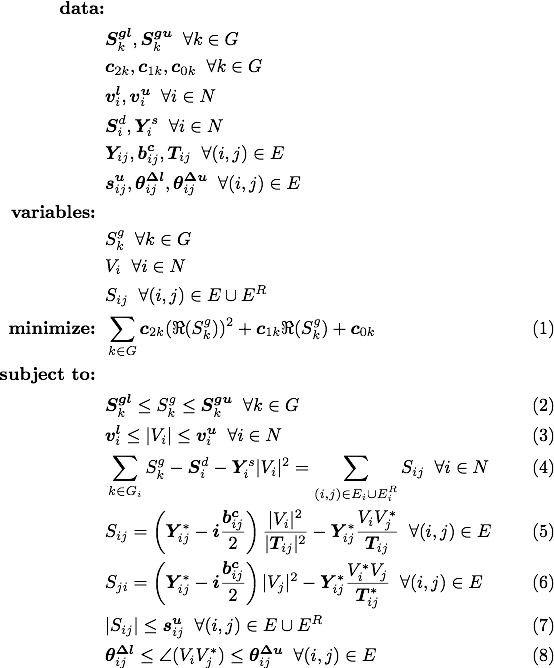
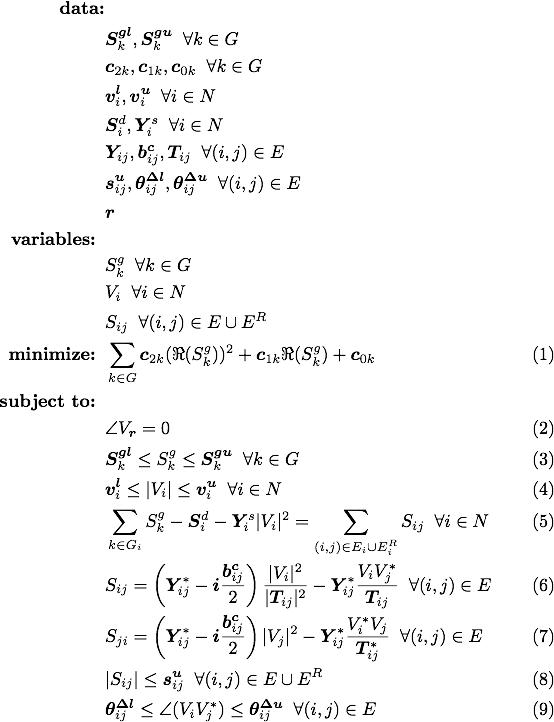
V17 Documentation Update (#3)
* updating baseline results
* adding ref bus to model, closes #2
* Added intro video link to readme
* updating results to ma27 solver, for best performance
* updating baseline to PowerModels v0.5.0

diff --git a/MODEL.tex b/MODEL.tex
@@ -10,7 +10,8 @@
 & \bm {v^l}_i, \bm {v^u}_i \;\; \forall i \in N \nonumber \\
 & \bm S^d_i, \bm Y^s_{i} \;\; \forall i \in N \nonumber \\
 & \bm Y_{ij}, \bm {b^c}_{ij}, \bm{T}_{ij} \;\; \forall (i,j) \in E \nonumber \\
-& \bm {s^u}_{ij}, \bm {\theta^{\Delta l}}_{ij}, \bm {\theta^{\Delta u}}_{ij} \;\; \forall (i,j) \in E  \nonumber \\
+& \bm {s^u}_{ij}, \bm {\theta^{\Delta l}}_{ij}, \bm {\theta^{\Delta u}}_{ij} \;\; \forall (i,j) \in E \nonumber \\
+& \bm r \nonumber \\
 %
 \mbox{\bf variables: } & \nonumber \\
 & S^g_k \;\; \forall k\in G \nonumber \\
@@ -20,6 +21,7 @@
 \mbox{\bf minimize: } & \sum_{k \in G} \bm c_{2k} (\Re(S^g_k))^2 + \bm c_{1k}\Re(S^g_k) + \bm c_{0k} \\
 %
 \mbox{\bf subject to: } & \nonumber \\
+& \angle V_{\bm r} = 0 \\
 & \bm {S^{gl}}_k \leq S^g_k \leq \bm {S^{gu}}_k \;\; \forall k \in G  \\
 & \bm {v^l}_i \leq |V_i| \leq \bm {v^u}_i \;\; \forall i \in N \\
 & \sum_{\substack{k \in G_i}} S^g_k - {\bm S^d_i} - \bm Y^s_{i} |V_i|^2 = \sum_{\substack{(i,j)\in E_i \cup E_i^R}} S_{ij} \;\; \forall i\in N \\ 

diff --git a/BASELINE.md b/BASELINE.md
@@ -1,22 +1,22 @@
 # Baseline Results
 This section presents the results of running 
 [PowerModels.jl](https://github.com/lanl-ansi/PowerModels.jl) 
-on the OPF test cases from the
+on the OPF benchmarks from the
 [PGLib Archive](https://github.com/power-grid-lib/pglib-opf). 
 providing baseline results for these test cases. All models were solved using 
 [IPOPT](https://link.springer.com/article/10.1007/s10107-004-0559-y).
 
-Note that the displayed solve times are only approximate
-and in this experiment include Julia's JIT time.
-Excluding the JIT time will reduce the runtime by 2-5 seconds.
-Using a better linear solver (e.g. [HSL](http://www.hsl.rl.ac.uk/ipopt/)) will further reduce the runtime by 4-10x.
+Note that the displayed solve times are only approximate.
+These times do not include Julia's JIT time, around 2-5 seconds, and
+use the [HSL](http://www.hsl.rl.ac.uk/ipopt/) ma27 solver in IPOPT.
+The default linear solver will increase the runtime by 2-6x.
 
 ## Software Versions
-**[PowerModels.jl](https://github.com/lanl-ansi/PowerModels.jl):** v0.3.4-27-g115de85, 115de853fd4103b712d051e902540e7fa2b627be
+**[PowerModels.jl](https://github.com/lanl-ansi/PowerModels.jl):** v0.5.0, a1a6f3530d02bbb8b65fb14fac09ba3e04544567
 
 **[Ipopt.jl](https://github.com/JuliaOpt/Ipopt.jl):** v0.2.6, 959b9c67e396a6e2307fc022d26b0d95692ee6a4
 
-**[PGLib OPF](https://github.com/power-grid-lib/pglib-opf):** none, 1d0aaefb7f9141fd22907d8a67e5109f43daf5ee
+**[PGLib OPF](https://github.com/power-grid-lib/pglib-opf):** v17.08, bfaba141cc7173c9f719042f74076b1e9da2f592
 
 **Hardware:** Dual Intel 2.10GHz CPUs, 128GB RAM
 
@@ -24,123 +24,123 @@ Using a better linear solver (e.g. [HSL](http://www.hsl.rl.ac.uk/ipopt/)) will f
 ## Typical Operating Conditions (TYP)
 | **Case Name** | **Nodes** | **Edges** | **DC (\$/h)** | **AC (\$/h)** | **QC Gap (%)** | **SOC Gap (%)** | **DC Time (sec.)** | **AC Time (sec.)** | **QC Time (sec.)** | **SOC Time (sec.)** |
 | ------------- | --------- | --------- | ------------- | ------------- | -------------- | --------------- | ------------------ | ------------------ | ------------------ | ------------------- |
-| pglib_opf_case3_lmbd | 3 | 3 | 5.6959e+03 | 5.8126e+03 | 1.22 | 1.32 | 2 | 5 | 2 | 2 |
-| pglib_opf_case5_pjm | 5 | 6 | 1.7480e+04 | 1.7552e+04 | 14.55 | 14.55 | 2 | 5 | 2 | 2 |
-| pglib_opf_case14_ieee | 14 | 20 | 5.9257e+03 | 6.2913e+03 | 0.11 | 0.11 | 2 | 5 | 2 | 2 |
-| pglib_opf_case24_ieee_rts | 24 | 38 | 6.1001e+04 | 6.3352e+04 | 0.02 | 0.02 | 2 | 5 | 2 | 2 |
-| pglib_opf_case30_as | 30 | 41 | 7.6760e+02 | 8.0313e+02 | 0.06 | 0.06 | 2 | 5 | 2 | 2 |
-| pglib_opf_case30_fsr | 30 | 41 | 5.6521e+02 | 5.7577e+02 | 0.39 | 0.39 | 2 | 5 | 2 | 2 |
-| pglib_opf_case30_ieee | 30 | 41 | 1.1081e+04 | 1.1974e+04 | 10.78 | 10.81 | 2 | 5 | 2 | 2 |
-| pglib_opf_case39_epri | 39 | 46 | 1.4145e+05 | 1.4298e+05 | 0.49 | 0.49 | 2 | 5 | 2 | 2 |
-| pglib_opf_case57_ieee | 57 | 80 | 3.5441e+04 | 3.9323e+04 | 0.46 | 0.46 | 2 | 5 | 2 | 2 |
-| pglib_opf_case73_ieee_rts | 73 | 120 | 1.8300e+05 | 1.8976e+05 | 0.04 | 0.04 | 2 | 5 | 2 | 2 |
-| pglib_opf_case89_pegase | 89 | 210 | 1.1224e+05 | 1.1633e+05 | 0.74 | 0.75 | 2 | 5 | 3 | 3 |
-| pglib_opf_case118_ieee | 118 | 186 | 1.0962e+05 | 1.1580e+05 | 2.20 | 2.27 | 2 | 5 | 3 | 2 |
-| pglib_opf_case162_ieee_dtc | 162 | 284 | 1.1666e+05 | 1.2615e+05 | 7.54 | 7.67 | 2 | 5 | 3 | 3 |
-| pglib_opf_case200_pserc | 200 | 245 | 3.6304e+04 | 3.6748e+04 | 0.02 | 0.02 | 2 | 5 | 3 | 2 |
-| pglib_opf_case240_pserc | 240 | 448 | 3.5056e+06 | 3.5700e+06 | 3.81 | 3.92 | 2 | 9 | 12 | 5 |
-| pglib_opf_case300_ieee | 300 | 411 | 5.9324e+05 | 6.6422e+05 | 2.56 | 2.60 | 2 | 6 | 5 | 3 |
-| pglib_opf_case1354_pegase | 1354 | 1991 | 1.3140e+06 | 1.3640e+06 | 2.40 | 2.41 | 3 | 12 | 21 | 10 |
-| pglib_opf_case1888_rte | 1888 | 2531 | 1.5111e+06 | 1.5654e+06 | 1.82 | 1.82 | 3 | 25 | 29 | 18 |
-| pglib_opf_case1951_rte | 1951 | 2596 | 2.3128e+06 | 2.3753e+06 | 0.12 | 0.13 | 3 | 29 | 32 | 18 |
-| pglib_opf_case2383wp_k | 2383 | 2896 | 1.8041e+06 | 1.8685e+06 | 0.99 | 1.05 | 4 | 17 | 32 | 18 |
-| pglib_opf_case2736sp_k | 2736 | 3504 | 1.2760e+06 | 1.3079e+06 | 0.29 | 0.30 | 3 | 16 | 35 | 14 |
-| pglib_opf_case2737sop_k | 2737 | 3506 | 7.6401e+05 | 7.7763e+05 | 0.25 | 0.26 | 3 | 13 | 29 | 12 |
-| pglib_opf_case2746wop_k | 2746 | 3514 | 1.1782e+06 | 1.2083e+06 | 0.36 | 0.37 | 2 | 14 | 32 | 13 |
-| pglib_opf_case2746wp_k | 2746 | 3514 | 1.5814e+06 | 1.6318e+06 | 0.32 | 0.33 | 3 | 15 | 31 | 15 |
-| pglib_opf_case2848_rte | 2848 | 3776 | 1.3636e+06 | 1.3847e+06 | 0.12 | 0.12 | 3 | 32 | 50 | 23 |
-| pglib_opf_case2868_rte | 2868 | 3808 | 2.2053e+06 | 2.2599e+06 | 0.11 | 0.11 | 3 | 33 | 52 | 27 |
-| pglib_opf_case2869_pegase | 2869 | 4582 | 2.5166e+06 | 2.6050e+06 | 1.07 | 1.08 | 3 | 25 | 65 | 23 |
-| pglib_opf_case3012wp_k | 3012 | 3572 | 2.5090e+06 | 2.6008e+06 | 0.98 | 1.03 | 4 | 20 | 46 | 25 |
-| pglib_opf_case3120sp_k | 3120 | 3693 | 2.0880e+06 | 2.1457e+06 | 0.54 | 0.55 | 4 | 19 | 46 | 18 |
-| pglib_opf_case3375wp_k | 3375 | 4161 | 7.3170e+06 | 7.4357e+06 | 0.50 | 0.52 | 4 | 25 | 153 | 307 |
-| pglib_opf_case6468_rte | 6468 | 9000 | 2.1619e+06 | 2.2623e+06 | 1.07 | 1.08 | 5 | 116 | 316 | 82 |
-| pglib_opf_case6470_rte | 6470 | 9005 | 2.4454e+06 | 2.5558e+06 | 1.95 | 1.96 | 6 | 69 | 181 | 172 |
-| pglib_opf_case6495_rte | 6495 | 9019 | 2.8481e+06 | 3.4777e+06 | 16.73 | 16.76 | 7 | 122 | 220 | 76 |
-| pglib_opf_case6515_rte | 6515 | 9037 | 2.8484e+06 | 3.1971e+06 | 7.86 | 7.87 | 7 | 106 | 173 | 73 |
-| pglib_opf_case9241_pegase | 9241 | 16049 | 6.5179e+06 | 6.7747e+06 | 1.99 | 2.84 | 9 | 113 | 642 | 150 |
-| pglib_opf_case13659_pegase | 13659 | 20467 | 1.0565e+07 | 1.0781e+07 | 0.95 | 1.35 | 11 | 199 | 735 | 192 |
+| pglib_opf_case3_lmbd | 3 | 3 | 5.6959e+03 | 5.8126e+03 | 1.22 | 1.32 | <1 | <1 | <1 | <1 |
+| pglib_opf_case5_pjm | 5 | 6 | 1.7480e+04 | 1.7552e+04 | 14.55 | 14.55 | <1 | <1 | <1 | <1 |
+| pglib_opf_case14_ieee | 14 | 20 | 5.9257e+03 | 6.2913e+03 | 0.11 | 0.11 | <1 | <1 | <1 | <1 |
+| pglib_opf_case24_ieee_rts | 24 | 38 | 6.1001e+04 | 6.3352e+04 | 0.02 | 0.02 | <1 | <1 | <1 | <1 |
+| pglib_opf_case30_as | 30 | 41 | 7.6760e+02 | 8.0313e+02 | 0.06 | 0.06 | <1 | <1 | <1 | <1 |
+| pglib_opf_case30_fsr | 30 | 41 | 5.6521e+02 | 5.7577e+02 | 0.39 | 0.39 | <1 | <1 | <1 | <1 |
+| pglib_opf_case30_ieee | 30 | 41 | 1.1081e+04 | 1.1974e+04 | 10.78 | 10.81 | <1 | <1 | <1 | <1 |
+| pglib_opf_case39_epri | 39 | 46 | 1.4145e+05 | 1.4298e+05 | 0.49 | 0.49 | <1 | <1 | <1 | <1 |
+| pglib_opf_case57_ieee | 57 | 80 | 3.5441e+04 | 3.9323e+04 | 0.46 | 0.46 | <1 | <1 | <1 | <1 |
+| pglib_opf_case73_ieee_rts | 73 | 120 | 1.8300e+05 | 1.8976e+05 | 0.04 | 0.04 | <1 | <1 | <1 | <1 |
+| pglib_opf_case89_pegase | 89 | 210 | 1.1224e+05 | 1.1633e+05 | 0.74 | 0.75 | <1 | <1 | <1 | <1 |
+| pglib_opf_case118_ieee | 118 | 186 | 1.0962e+05 | 1.1580e+05 | 2.20 | 2.27 | <1 | <1 | <1 | <1 |
+| pglib_opf_case162_ieee_dtc | 162 | 284 | 1.1666e+05 | 1.2615e+05 | 7.54 | 7.67 | <1 | <1 | <1 | <1 |
+| pglib_opf_case200_pserc | 200 | 245 | 3.6304e+04 | 3.6748e+04 | 0.02 | 0.02 | <1 | <1 | <1 | <1 |
+| pglib_opf_case240_pserc | 240 | 448 | 3.5056e+06 | 3.5700e+06 | 3.81 | 3.92 | <1 | 4 | 4 | 2 |
+| pglib_opf_case300_ieee | 300 | 411 | 5.9324e+05 | 6.6422e+05 | 2.56 | 2.60 | <1 | <1 | <1 | <1 |
+| pglib_opf_case1354_pegase | 1354 | 1991 | 1.3140e+06 | 1.3640e+06 | 2.40 | 2.41 | <1 | 6 | 6 | 3 |
+| pglib_opf_case1888_rte | 1888 | 2531 | 1.5111e+06 | 1.5654e+06 | 1.82 | 1.82 | <1 | 15 | 9 | 6 |
+| pglib_opf_case1951_rte | 1951 | 2596 | 2.3128e+06 | 2.3753e+06 | 0.12 | 0.13 | <1 | 17 | 10 | 6 |
+| pglib_opf_case2383wp_k | 2383 | 2896 | 1.8041e+06 | 1.8685e+06 | 0.99 | 1.05 | <1 | 11 | 10 | 5 |
+| pglib_opf_case2736sp_k | 2736 | 3504 | 1.2760e+06 | 1.3079e+06 | 0.29 | 0.30 | <1 | 7 | 11 | 4 |
+| pglib_opf_case2737sop_k | 2737 | 3506 | 7.6401e+05 | 7.7763e+05 | 0.25 | 0.26 | <1 | 6 | 9 | 4 |
+| pglib_opf_case2746wop_k | 2746 | 3514 | 1.1782e+06 | 1.2083e+06 | 0.36 | 0.37 | <1 | 7 | 10 | 4 |
+| pglib_opf_case2746wp_k | 2746 | 3514 | 1.5814e+06 | 1.6318e+06 | 0.32 | 0.33 | <1 | 7 | 10 | 5 |
+| pglib_opf_case2848_rte | 2848 | 3776 | 1.3636e+06 | 1.3847e+06 | 0.12 | 0.12 | <1 | 20 | 14 | 7 |
+| pglib_opf_case2868_rte | 2868 | 3808 | 2.2053e+06 | 2.2599e+06 | 0.11 | 0.11 | <1 | 21 | 15 | 8 |
+| pglib_opf_case2869_pegase | 2869 | 4582 | 2.5166e+06 | 2.6050e+06 | 1.07 | 1.08 | <1 | 13 | 20 | 7 |
+| pglib_opf_case3012wp_k | 3012 | 3572 | 2.5090e+06 | 2.6008e+06 | 0.98 | 1.03 | <1 | 11 | 14 | 8 |
+| pglib_opf_case3120sp_k | 3120 | 3693 | 2.0880e+06 | 2.1457e+06 | 0.54 | 0.55 | <1 | 10 | 15 | 6 |
+| pglib_opf_case3375wp_k | 3375 | 4161 | 7.3170e+06 | 7.4357e+06 | 0.50 | 0.52 | <1 | 13 | 44 | 26 |
+| pglib_opf_case6468_rte | 6468 | 9000 | 2.1619e+06 | 2.2623e+06 | 1.07 | 1.07 | 2 | 79 | 69 | 27 |
+| pglib_opf_case6470_rte | 6470 | 9005 | 2.4454e+06 | 2.5558e+06 | 1.95 | 1.96 | 2 | 48 | 47 | 24 |
+| pglib_opf_case6495_rte | 6495 | 9019 | 2.8481e+06 | 3.4777e+06 | 16.73 | 16.75 | 2 | 90 | 50 | 24 |
+| pglib_opf_case6515_rte | 6515 | 9037 | 2.8484e+06 | 3.1971e+06 | 7.86 | 7.87 | 2 | 74 | 55 | 23 |
+| pglib_opf_case9241_pegase | 9241 | 16049 | 6.5179e+06 | 6.7747e+06 | 1.99 | 2.84 | 2 | 62 | 118 | 38 |
+| pglib_opf_case13659_pegase | 13659 | 20467 | 1.0565e+07 | 1.0781e+07 | 0.95 | 1.35 | 3 | 89 | 125 | 45 |
 
 
 ## Congested Operating Conditions (API)
 | **Case Name** | **Nodes** | **Edges** | **DC (\$/h)** | **AC (\$/h)** | **QC Gap (%)** | **SOC Gap (%)** | **DC Time (sec.)** | **AC Time (sec.)** | **QC Time (sec.)** | **SOC Time (sec.)** |
 | ------------- | --------- | --------- | ------------- | ------------- | -------------- | --------------- | ------------------ | ------------------ | ------------------ | ------------------- |
-| pglib_opf_case3_lmbd__api | 3 | 3 | 1.0444e+04 | 1.1242e+04 | 5.63 | 9.32 | 2 | 5 | 2 | 2 |
-| pglib_opf_case5_pjm__api | 5 | 6 | 7.5433e+04 | 7.6377e+04 | 4.09 | 4.09 | 2 | 5 | 2 | 2 |
-| pglib_opf_case14_ieee__api | 14 | 20 | 1.1586e+04 | 1.3311e+04 | 1.77 | 1.77 | 2 | 5 | 2 | 2 |
-| pglib_opf_case24_ieee_rts__api | 24 | 38 | 1.2336e+05 | 1.3495e+05 | 13.01 | 17.87 | 2 | 5 | 2 | 2 |
-| pglib_opf_case30_as__api | 30 | 41 | 3.0921e+03 | 4.9962e+03 | 44.61 | 44.61 | 2 | 5 | 2 | 2 |
-| pglib_opf_case30_fsr__api | 30 | 41 | 6.7254e+02 | 7.0115e+02 | 2.76 | 2.76 | 2 | 5 | 2 | 2 |
-| pglib_opf_case30_ieee__api | 30 | 41 | 2.1698e+04 | 2.4032e+04 | 3.73 | 3.73 | 2 | 5 | 2 | 2 |
-| pglib_opf_case39_epri__api | 39 | 46 | 2.5216e+05 | 2.5721e+05 | 1.57 | 1.60 | 2 | 5 | 2 | 2 |
-| pglib_opf_case57_ieee__api | 57 | 80 | 5.7032e+04 | 5.9274e+04 | 0.08 | 0.08 | 2 | 5 | 2 | 2 |
-| pglib_opf_case73_ieee_rts__api | 73 | 120 | 3.6238e+05 | 4.2273e+05 | 11.07 | 12.89 | 2 | 5 | 3 | 2 |
-| pglib_opf_case89_pegase__api | 89 | 210 | 1.2974e+05 | 1.4198e+05 | 8.13 | 8.14 | 2 | 6 | 4 | 2 |
-| pglib_opf_case118_ieee__api | 118 | 186 | 2.9247e+05 | 3.1642e+05 | 28.63 | 28.70 | 2 | 5 | 3 | 2 |
-| pglib_opf_case162_ieee_dtc__api | 162 | 284 | 1.3016e+05 | 1.4351e+05 | 5.44 | 5.49 | 2 | 5 | 3 | 2 |
-| pglib_opf_case200_pserc__api | 200 | 245 | 3.9923e+04 | 4.0458e+04 | 0.02 | 0.02 | 2 | 5 | 3 | 2 |
-| pglib_opf_case240_pserc__api | 240 | 448 | 5.3109e+06 | 5.3917e+06 | 0.80 | 0.83 | 2 | 10 | 18 | 6 |
-| pglib_opf_case300_ieee__api | 300 | 411 | 7.3994e+05 | 7.7549e+05 | 0.88 | 0.95 | 2 | 5 | 5 | 3 |
-| pglib_opf_case1354_pegase__api | 1354 | 1991 | 1.7485e+06 | 1.8041e+06 | 0.70 | 0.71 | 3 | 13 | 21 | 11 |
-| pglib_opf_case1888_rte__api | 1888 | 2531 | 2.1930e+06 | 2.2566e+06 | 0.47 | 0.47 | 3 | 19 | 44 | 18 |
-| pglib_opf_case1951_rte__api | 1951 | 2596 | 2.7027e+06 | 2.8005e+06 | 0.60 | 0.62 | 3 | 20 | 37 | 18 |
-| pglib_opf_case2383wp_k__api | 2383 | 2896 | 2.7913e+05 | 2.7913e+05 | 0.01 | 0.01 | 2 | 9 | 11 | 5 |
-| pglib_opf_case2736sp_k__api | 2736 | 3504 | 5.9774e+05 | 6.3847e+05 | 12.82 | 12.83 | 3 | 16 | 34 | 11 |
-| pglib_opf_case2737sop_k__api | 2737 | 3506 | 3.7570e+05 | 4.0282e+05 | 10.00 | 10.01 | 3 | 16 | 30 | 10 |
-| pglib_opf_case2746wop_k__api | 2746 | 3514 | 5.1166e+05 | 5.1166e+05 | 0.01 | 0.01 | 3 | 9 | 13 | 6 |
-| pglib_opf_case2746wp_k__api | 2746 | 3514 | 5.8183e+05 | 5.8183e+05 | 0.01 | 0.00 | 3 | 11 | 18 | 8 |
-| pglib_opf_case2848_rte__api | 2848 | 3776 | 1.6822e+06 | 1.7169e+06 | 0.18 | 0.18 | 3 | 51 | 52 | 25 |
-| pglib_opf_case2868_rte__api | 2868 | 3808 | 2.6357e+06 | 2.7159e+06 | 0.19 | 0.20 | 3 | 43 | 56 | 22 |
-| pglib_opf_case2869_pegase__api | 2869 | 4582 | 3.2154e+06 | 3.3185e+06 | 0.82 | 0.84 | 4 | 25 | 68 | 26 |
-| pglib_opf_case3012wp_k__api | 3012 | 3572 | 7.2887e+05 | 7.2887e+05 | 0.00 | 0.00 | 3 | 11 | 20 | 8 |
-| pglib_opf_case3120sp_k__api | 3120 | 3693 | 8.5997e+05 | 9.2026e+05 | 24.92 | 24.95 | 5 | 25 | 46 | 13 |
-| pglib_opf_case3375wp_k__api | 3375 | 4161 | 5.7641e+06 | 5.8861e+06 | 9.46 | 9.55 | 6 | 24 | 68 | 43 |
-| pglib_opf_case6468_rte__api | 6468 | 9000 | 2.6081e+06 | 2.7102e+06 | 0.41 | 0.43 | 5 | 121 | 185 | 88 |
-| pglib_opf_case6470_rte__api | 6470 | 9005 | 3.0333e+06 | 3.1603e+06 | 0.83 | 0.84 | 5 | 84 | 154 | 73 |
-| pglib_opf_case6495_rte__api | 6495 | 9019 | 3.4186e+06 | 3.6263e+06 | 3.25 | 3.28 | 6 | 113 | 169 | 75 |
-| pglib_opf_case6515_rte__api | 6515 | 9037 | 3.3777e+06 | 3.5904e+06 | 2.54 | 2.56 | 6 | 95 | 203 | 69 |
-| pglib_opf_case9241_pegase__api | 9241 | 16049 | 7.9822e+06 | 8.2656e+06 | 1.70 | 2.59 | 9 | 156 | 601 | 161 |
-| pglib_opf_case13659_pegase__api | 13659 | 20467 | 1.0895e+07 | 1.1209e+07 | 1.21 | 1.91 | 11 | 157 | 703 | 233 |
+| pglib_opf_case3_lmbd__api | 3 | 3 | 1.0444e+04 | 1.1242e+04 | 5.63 | 9.32 | <1 | <1 | <1 | <1 |
+| pglib_opf_case5_pjm__api | 5 | 6 | 7.5433e+04 | 7.6377e+04 | 4.09 | 4.09 | <1 | <1 | <1 | <1 |
+| pglib_opf_case14_ieee__api | 14 | 20 | 1.1586e+04 | 1.3311e+04 | 1.77 | 1.77 | <1 | <1 | <1 | <1 |
+| pglib_opf_case24_ieee_rts__api | 24 | 38 | 1.2336e+05 | 1.3495e+05 | 13.01 | 17.87 | <1 | <1 | <1 | <1 |
+| pglib_opf_case30_as__api | 30 | 41 | 3.0921e+03 | 4.9962e+03 | 44.61 | 44.61 | <1 | <1 | <1 | <1 |
+| pglib_opf_case30_fsr__api | 30 | 41 | 6.7254e+02 | 7.0115e+02 | 2.76 | 2.76 | <1 | <1 | <1 | <1 |
+| pglib_opf_case30_ieee__api | 30 | 41 | 2.1698e+04 | 2.4032e+04 | 3.73 | 3.73 | <1 | <1 | <1 | <1 |
+| pglib_opf_case39_epri__api | 39 | 46 | 2.5216e+05 | 2.5721e+05 | 1.57 | 1.60 | <1 | <1 | <1 | <1 |
+| pglib_opf_case57_ieee__api | 57 | 80 | 5.7032e+04 | 5.9274e+04 | 0.08 | 0.08 | <1 | <1 | <1 | <1 |
+| pglib_opf_case73_ieee_rts__api | 73 | 120 | 3.6238e+05 | 4.2273e+05 | 11.07 | 12.89 | <1 | <1 | <1 | <1 |
+| pglib_opf_case89_pegase__api | 89 | 210 | 1.2974e+05 | 1.4198e+05 | 8.13 | 8.14 | <1 | <1 | <1 | <1 |
+| pglib_opf_case118_ieee__api | 118 | 186 | 2.9247e+05 | 3.1642e+05 | 28.63 | 28.70 | <1 | <1 | <1 | <1 |
+| pglib_opf_case162_ieee_dtc__api | 162 | 284 | 1.3016e+05 | 1.4351e+05 | 5.44 | 5.49 | <1 | <1 | <1 | <1 |
+| pglib_opf_case200_pserc__api | 200 | 245 | 3.9923e+04 | 4.0458e+04 | 0.02 | 0.02 | <1 | <1 | <1 | <1 |
+| pglib_opf_case240_pserc__api | 240 | 448 | 5.3109e+06 | 5.3917e+06 | 0.80 | 0.83 | <1 | 4 | 6 | 2 |
+| pglib_opf_case300_ieee__api | 300 | 411 | 7.3994e+05 | 7.7549e+05 | 0.88 | 0.95 | <1 | <1 | 2 | <1 |
+| pglib_opf_case1354_pegase__api | 1354 | 1991 | 1.7485e+06 | 1.8041e+06 | 0.70 | 0.71 | <1 | 6 | 6 | 3 |
+| pglib_opf_case1888_rte__api | 1888 | 2531 | 2.1930e+06 | 2.2566e+06 | 0.47 | 0.47 | <1 | 9 | 14 | 5 |
+| pglib_opf_case1951_rte__api | 1951 | 2596 | 2.7027e+06 | 2.8005e+06 | 0.60 | 0.62 | <1 | 11 | 10 | 6 |
+| pglib_opf_case2383wp_k__api | 2383 | 2896 | 2.7913e+05 | 2.7913e+05 | 0.01 | 0.01 | <1 | 3 | 3 | <1 |
+| pglib_opf_case2736sp_k__api | 2736 | 3504 | 5.9774e+05 | 6.3847e+05 | 12.82 | 12.83 | <1 | 9 | 10 | 3 |
+| pglib_opf_case2737sop_k__api | 2737 | 3506 | 3.7570e+05 | 4.0282e+05 | 10.00 | 10.01 | <1 | 8 | 9 | 3 |
+| pglib_opf_case2746wop_k__api | 2746 | 3514 | 5.1166e+05 | 5.1166e+05 | 0.01 | 0.01 | <1 | 3 | 4 | 2 |
+| pglib_opf_case2746wp_k__api | 2746 | 3514 | 5.8183e+05 | 5.8183e+05 | 0.01 | 0.00 | <1 | 5 | 5 | 2 |
+| pglib_opf_case2848_rte__api | 2848 | 3776 | 1.6822e+06 | 1.7169e+06 | 0.18 | 0.18 | <1 | 34 | 15 | 7 |
+| pglib_opf_case2868_rte__api | 2868 | 3808 | 2.6357e+06 | 2.7159e+06 | 0.19 | 0.20 | <1 | 29 | 16 | 7 |
+| pglib_opf_case2869_pegase__api | 2869 | 4582 | 3.2154e+06 | 3.3185e+06 | 0.82 | 0.84 | <1 | 15 | 21 | 8 |
+| pglib_opf_case3012wp_k__api | 3012 | 3572 | 7.2887e+05 | 7.2887e+05 | 0.00 | 0.00 | <1 | 5 | 6 | 2 |
+| pglib_opf_case3120sp_k__api | 3120 | 3693 | 8.5997e+05 | 9.2026e+05 | 24.92 | 24.95 | <1 | 15 | 14 | 4 |
+| pglib_opf_case3375wp_k__api | 3375 | 4161 | 5.7641e+06 | 5.8861e+06 | 9.46 | 9.55 | <1 | 14 | 21 | 14 |
+| pglib_opf_case6468_rte__api | 6468 | 9000 | 2.6081e+06 | 2.7102e+06 | 0.41 | 0.42 | <1 | 86 | 55 | 30 |
+| pglib_opf_case6470_rte__api | 6470 | 9005 | 3.0333e+06 | 3.1603e+06 | 0.82 | 0.84 | <1 | 60 | 40 | 23 |
+| pglib_opf_case6495_rte__api | 6495 | 9019 | 3.4186e+06 | 3.6263e+06 | 3.24 | 3.28 | 2 | 80 | 48 | 24 |
+| pglib_opf_case6515_rte__api | 6515 | 9037 | 3.3777e+06 | 3.5904e+06 | 2.53 | 2.56 | 2 | 73 | 52 | 22 |
+| pglib_opf_case9241_pegase__api | 9241 | 16049 | 7.9822e+06 | 8.2656e+06 | 1.70 | 2.59 | 2 | 74 | 141 | 39 |
+| pglib_opf_case13659_pegase__api | 13659 | 20467 | 1.0895e+07 | 1.1209e+07 | 1.21 | 1.91 | 3 | 74 | 122 | 55 |
 
 
 ## Small Angle Difference Conditions (SAD)
 | **Case Name** | **Nodes** | **Edges** | **DC (\$/h)** | **AC (\$/h)** | **QC Gap (%)** | **SOC Gap (%)** | **DC Time (sec.)** | **AC Time (sec.)** | **QC Time (sec.)** | **SOC Time (sec.)** |
 | ------------- | --------- | --------- | ------------- | ------------- | -------------- | --------------- | ------------------ | ------------------ | ------------------ | ------------------- |
-| pglib_opf_case3_lmbd__sad | 3 | 3 | 5.8560e+03 | 5.9593e+03 | 1.42 | 3.75 | 2 | 5 | 2 | 2 |
-| pglib_opf_case5_pjm__sad | 5 | 6 | inf. | 2.6115e+04 | 0.99 | 3.62 | 2 | 5 | 2 | 2 |
-| pglib_opf_case14_ieee__sad | 14 | 20 | inf. | 6.7834e+03 | 7.16 | 7.21 | 2 | 5 | 2 | 2 |
-| pglib_opf_case24_ieee_rts__sad | 24 | 38 | 7.8163e+04 | 7.6943e+04 | 2.93 | 9.56 | 2 | 5 | 2 | 2 |
-| pglib_opf_case30_as__sad | 30 | 41 | inf. | 8.9749e+02 | 2.32 | 7.88 | 2 | 5 | 2 | 2 |
-| pglib_opf_case30_fsr__sad | 30 | 41 | inf. | 5.7679e+02 | 0.41 | 0.47 | 2 | 5 | 2 | 2 |
-| pglib_opf_case30_ieee__sad | 30 | 41 | inf. | 1.1974e+04 | 3.42 | 5.65 | 2 | 5 | 2 | 2 |
-| pglib_opf_case39_epri__sad | 39 | 46 | 1.5470e+05 | 1.5246e+05 | 0.20 | 0.60 | 2 | 5 | 2 | 2 |
-| pglib_opf_case57_ieee__sad | 57 | 80 | inf. | 4.5208e+04 | 0.83 | 1.79 | 2 | 5 | 2 | 2 |
-| pglib_opf_case73_ieee_rts__sad | 73 | 120 | 2.3291e+05 | 2.2775e+05 | 2.54 | 6.75 | 2 | 5 | 3 | 2 |
-| pglib_opf_case89_pegase__sad | 89 | 210 | inf. | 1.1657e+05 | 0.82 | 0.86 | 2 | 5 | 3 | 2 |
-| pglib_opf_case118_ieee__sad | 118 | 186 | inf. | 1.2924e+05 | 9.48 | 11.53 | 2 | 5 | 3 | 2 |
-| pglib_opf_case162_ieee_dtc__sad | 162 | 284 | 1.2549e+05 | 1.2704e+05 | 8.02 | 8.32 | 2 | 5 | 4 | 2 |
-| pglib_opf_case200_pserc__sad | 200 | 245 | inf. | 4.0991e+04 | 0.17 | 0.18 | 2 | 5 | 4 | 2 |
-| pglib_opf_case240_pserc__sad | 240 | 448 | inf. | 3.6565e+06 | 5.24 | 6.19 | 3 | 9 | 12 | 5 |
-| pglib_opf_case300_ieee__sad | 300 | 411 | 6.0726e+05 | 6.6431e+05 | 2.36 | 2.52 | 2 | 6 | 5 | 3 |
-| pglib_opf_case1354_pegase__sad | 1354 | 1991 | inf. | 1.3646e+06 | 2.37 | 2.45 | 4 | 13 | 21 | 10 |
-| pglib_opf_case1888_rte__sad | 1888 | 2531 | 1.5123e+06 | 1.5806e+06 | 2.73 | 2.74 | 3 | 26 | 30 | 16 |
-| pglib_opf_case1951_rte__sad | 1951 | 2596 | inf. | 2.3820e+06 | 0.37 | 0.40 | 5 | 36 | 32 | 17 |
-| pglib_opf_case2383wp_k__sad | 2383 | 2896 | inf. | 1.9165e+06 | 2.16 | 3.13 | 8 | 19 | 31 | 18 |
-| pglib_opf_case2736sp_k__sad | 2736 | 3504 | inf. | 1.3294e+06 | 1.53 | 1.80 | 6 | 18 | 33 | 16 |
-| pglib_opf_case2737sop_k__sad | 2737 | 3506 | inf. | 7.9267e+05 | 1.92 | 2.10 | 5 | 16 | 31 | 12 |
-| pglib_opf_case2746wop_k__sad | 2746 | 3514 | inf. | 1.2344e+06 | 2.00 | 2.37 | 6 | 17 | 27 | 13 |
-| pglib_opf_case2746wp_k__sad | 2746 | 3514 | inf. | 1.6674e+06 | 1.68 | 2.21 | 6 | 16 | 31 | 17 |
-| pglib_opf_case2848_rte__sad | 2848 | 3776 | inf. | 1.3879e+06 | 0.27 | 0.29 | 6 | 33 | 49 | 18 |
-| pglib_opf_case2868_rte__sad | 2868 | 3808 | inf. | 2.2707e+06 | 0.50 | 0.53 | 6 | 31 | 53 | 21 |
-| pglib_opf_case2869_pegase__sad | 2869 | 4582 | inf. | 2.6198e+06 | 1.39 | 1.49 | 12 | 25 | 75 | 25 |
-| pglib_opf_case3012wp_k__sad | 3012 | 3572 | inf. | 2.6213e+06 | 1.41 | 1.62 | 9 | 22 | 48 | 19 |
-| pglib_opf_case3120sp_k__sad | 3120 | 3693 | inf. | 2.1755e+06 | 1.42 | 1.61 | 10 | 24 | 51 | 20 |
-| pglib_opf_case3375wp_k__sad | 3375 | 4161 | 7.3197e+06 | 7.4357e+06 | 0.47 | 0.52 | 5 | 24 | 81 | 83 |
-| pglib_opf_case6468_rte__sad | 6468 | 9000 | 2.1619e+06 | 2.2623e+06 | 1.05 | 1.07 | 5 | 176 | 191 | 86 |
-| pglib_opf_case6470_rte__sad | 6470 | 9005 | 2.4483e+06 | 2.5597e+06 | 2.03 | 2.09 | 6 | 70 | 179 | 69 |
-| pglib_opf_case6495_rte__sad | 6495 | 9019 | 2.8482e+06 | 3.4777e+06 | 16.63 | 16.76 | 6 | 130 | 203 | 75 |
-| pglib_opf_case6515_rte__sad | 6515 | 9037 | 2.8486e+06 | 3.2679e+06 | 9.83 | 9.87 | 6 | 113 | 191 | 71 |
-| pglib_opf_case9241_pegase__sad | 9241 | 16049 | inf. | 6.9170e+06 | 3.49 | 3.56 | 24 | 135 | 668 | 153 |
-| pglib_opf_case13659_pegase__sad | 13659 | 20467 | inf. | 1.0901e+07 | 1.70 | 1.74 | 36 | 152 | 821 | 1598 |
+| pglib_opf_case3_lmbd__sad | 3 | 3 | 5.8560e+03 | 5.9593e+03 | 1.42 | 3.75 | <1 | <1 | <1 | <1 |
+| pglib_opf_case5_pjm__sad | 5 | 6 | inf. | 2.6115e+04 | 0.99 | 3.62 | <1 | <1 | <1 | <1 |
+| pglib_opf_case14_ieee__sad | 14 | 20 | inf. | 6.7834e+03 | 7.16 | 7.21 | <1 | <1 | <1 | <1 |
+| pglib_opf_case24_ieee_rts__sad | 24 | 38 | 7.8163e+04 | 7.6943e+04 | 2.93 | 9.56 | <1 | <1 | <1 | <1 |
+| pglib_opf_case30_as__sad | 30 | 41 | inf. | 8.9749e+02 | 2.32 | 7.88 | <1 | <1 | <1 | <1 |
+| pglib_opf_case30_fsr__sad | 30 | 41 | inf. | 5.7679e+02 | 0.41 | 0.47 | <1 | <1 | <1 | <1 |
+| pglib_opf_case30_ieee__sad | 30 | 41 | inf. | 1.1974e+04 | 3.42 | 5.65 | <1 | <1 | <1 | <1 |
+| pglib_opf_case39_epri__sad | 39 | 46 | 1.5470e+05 | 1.5246e+05 | 0.20 | 0.60 | <1 | <1 | <1 | <1 |
+| pglib_opf_case57_ieee__sad | 57 | 80 | inf. | 4.5208e+04 | 0.83 | 1.79 | <1 | <1 | <1 | <1 |
+| pglib_opf_case73_ieee_rts__sad | 73 | 120 | 2.3291e+05 | 2.2775e+05 | 2.54 | 6.75 | <1 | <1 | <1 | <1 |
+| pglib_opf_case89_pegase__sad | 89 | 210 | inf. | 1.1657e+05 | 0.82 | 0.86 | <1 | <1 | <1 | <1 |
+| pglib_opf_case118_ieee__sad | 118 | 186 | inf. | 1.2924e+05 | 9.48 | 11.53 | <1 | <1 | <1 | <1 |
+| pglib_opf_case162_ieee_dtc__sad | 162 | 284 | 1.2549e+05 | 1.2704e+05 | 8.02 | 8.32 | <1 | <1 | <1 | <1 |
+| pglib_opf_case200_pserc__sad | 200 | 245 | inf. | 4.0991e+04 | 0.17 | 0.18 | <1 | <1 | <1 | <1 |
+| pglib_opf_case240_pserc__sad | 240 | 448 | inf. | 3.6565e+06 | 5.24 | 6.19 | <1 | 4 | 4 | 2 |
+| pglib_opf_case300_ieee__sad | 300 | 411 | 6.0726e+05 | 6.6431e+05 | 2.36 | 2.52 | <1 | <1 | <1 | <1 |
+| pglib_opf_case1354_pegase__sad | 1354 | 1991 | inf. | 1.3646e+06 | 2.37 | 2.45 | <1 | 6 | 7 | 3 |
+| pglib_opf_case1888_rte__sad | 1888 | 2531 | 1.5123e+06 | 1.5806e+06 | 2.73 | 2.74 | <1 | 16 | 9 | 5 |
+| pglib_opf_case1951_rte__sad | 1951 | 2596 | inf. | 2.3820e+06 | 0.37 | 0.40 | <1 | 23 | 10 | 5 |
+| pglib_opf_case2383wp_k__sad | 2383 | 2896 | inf. | 1.9165e+06 | 2.16 | 3.13 | 2 | 11 | 10 | 6 |
+| pglib_opf_case2736sp_k__sad | 2736 | 3504 | inf. | 1.3294e+06 | 1.53 | 1.80 | 2 | 11 | 11 | 5 |
+| pglib_opf_case2737sop_k__sad | 2737 | 3506 | inf. | 7.9267e+05 | 1.92 | 2.10 | 2 | 8 | 10 | 4 |
+| pglib_opf_case2746wop_k__sad | 2746 | 3514 | inf. | 1.2344e+06 | 2.00 | 2.37 | 2 | 8 | 8 | 4 |
+| pglib_opf_case2746wp_k__sad | 2746 | 3514 | inf. | 1.6674e+06 | 1.68 | 2.21 | 2 | 9 | 9 | 5 |
+| pglib_opf_case2848_rte__sad | 2848 | 3776 | inf. | 1.3879e+06 | 0.27 | 0.29 | 2 | 21 | 14 | 5 |
+| pglib_opf_case2868_rte__sad | 2868 | 3808 | inf. | 2.2707e+06 | 0.50 | 0.53 | 2 | 23 | 15 | 6 |
+| pglib_opf_case2869_pegase__sad | 2869 | 4582 | inf. | 2.6198e+06 | 1.39 | 1.49 | 3 | 14 | 30 | 7 |
+| pglib_opf_case3012wp_k__sad | 3012 | 3572 | inf. | 2.6213e+06 | 1.41 | 1.62 | 3 | 12 | 15 | 6 |
+| pglib_opf_case3120sp_k__sad | 3120 | 3693 | inf. | 2.1755e+06 | 1.42 | 1.61 | 3 | 14 | 16 | 6 |
+| pglib_opf_case3375wp_k__sad | 3375 | 4161 | 7.3197e+06 | 7.4357e+06 | 0.47 | 0.52 | <1 | 14 | 26 | 19 |
+| pglib_opf_case6468_rte__sad | 6468 | 9000 | 2.1619e+06 | 2.2623e+06 | 1.05 | 1.06 | <1 | 129 | 66 | 28 |
+| pglib_opf_case6470_rte__sad | 6470 | 9005 | 2.4483e+06 | 2.5597e+06 | 2.03 | 2.08 | 2 | 47 | 47 | 22 |
+| pglib_opf_case6495_rte__sad | 6495 | 9019 | 2.8482e+06 | 3.4777e+06 | 16.63 | 16.75 | 2 | 90 | 52 | 23 |
+| pglib_opf_case6515_rte__sad | 6515 | 9037 | 2.8486e+06 | 3.2679e+06 | 9.82 | 9.87 | 2 | 80 | 52 | 22 |
+| pglib_opf_case9241_pegase__sad | 9241 | 16049 | inf. | 6.9170e+06 | 3.49 | 3.56 | 10 | 68 | 140 | 37 |
+| pglib_opf_case13659_pegase__sad | 13659 | 20467 | inf. | 1.0901e+07 | 1.70 | 1.74 | 12 | 78 | 136 | 76 |
 
 

diff --git a/README.md b/README.md
@@ -1,6 +1,6 @@
 # Power Grid Lib - Optimal Power Flow v17.08
 
-This benchmark library is curated and maintained by the [IEEE PES Task Force on Benchmarks for Validation of Emerging Power System Algorithms](https://power-grid-lib.github.io/) and is designed to evaluate a well established version of the the AC Optimal Power Flow problem.  Specifically, these cases are designed for benchmarking algorithms that solve the following Non-Convex Nonlinear Program,
+This benchmark library is curated and maintained by the [IEEE PES Task Force on Benchmarks for Validation of Emerging Power System Algorithms](https://power-grid-lib.github.io/) and is designed to evaluate a well established version of the the AC Optimal Power Flow problem.  An introductory video is available [here](https://youtu.be/fC3hzddCJ2c). Specifically, these cases are designed for benchmarking algorithms that solve the following Non-Convex Nonlinear Program,
 
 &nbsp;
 ![The Mathematical Model of the Optimal Power Flow Problem](MODEL.png?raw=true "Optional Title")
